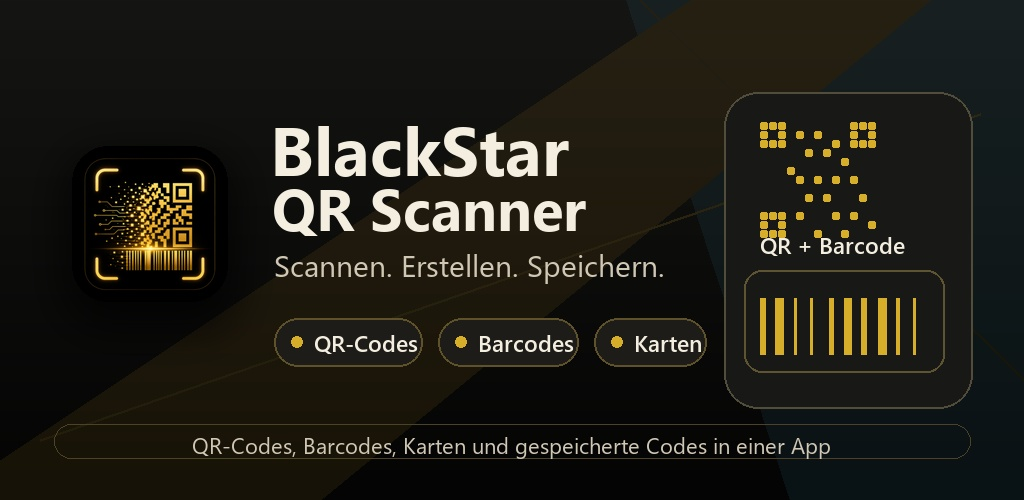
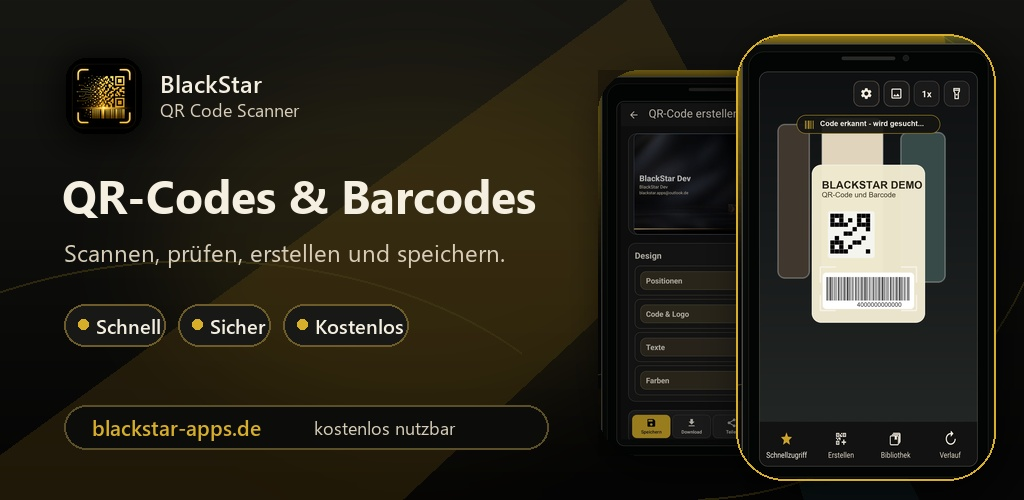
Refresh website screenshots and feature graphics

diff --git a/en/index.html b/en/index.html
@@ -137,7 +137,7 @@
 
     <section id="features" class="section intro-grid">
       <div>
-        <p class="section-kicker">Version 2.0</p>
+        <p class="section-kicker">App highlights</p>
         <h2>More than a quick scanner</h2>
         <p>
           The app combines camera scanning, code creation, a local library, templates
@@ -180,8 +180,8 @@
         </ul>
       </div>
       <div class="phone-pair" aria-label="App previews">
-        <img class="phone one" src="../assets/img/screen-business-card-designer-en.jpg" alt="Business card designer in BlackStar QR Scanner">
-        <img class="phone two" src="../assets/img/screen-save-and-organize-en.jpg" alt="Saved QR business card">
+        <img class="phone one" src="../assets/img/web-en-04-business-card-designer.jpg" alt="Business card designer in BlackStar QR Scanner">
+        <img class="phone two" src="../assets/img/web-en-07-location-card.jpg" alt="Location card with QR code and design options">
       </div>
     </section>
 
@@ -204,36 +204,36 @@
       </div>
       <div class="screenshots">
         <figure>
-          <img src="../assets/img/screen-scan-status-en.jpg" alt="Scanner with detected barcode status">
+          <img src="../assets/img/web-en-01-scan-codes.jpg" alt="Scanner with detected QR code and barcode">
           <figcaption>Fast scanning</figcaption>
         </figure>
         <figure>
-          <img src="../assets/img/screen-local-safety-check-en.jpg" alt="Result screen with local security check">
+          <img src="../assets/img/web-en-02-link-safety-check.jpg" alt="Link result with local safety check">
           <figcaption>Check links</figcaption>
         </figure>
         <figure>
-          <img src="../assets/img/screen-product-barcodes-en.jpg" alt="Product and barcode result with quick actions">
-          <figcaption>Product & barcode tools</figcaption>
-        </figure>
-        <figure>
-          <img src="../assets/img/screen-create-any-code-en.jpg" alt="Code creation with multiple code types">
+          <img src="../assets/img/web-en-03-create-codes.jpg" alt="QR code generator with multiple code types">
           <figcaption>Create codes</figcaption>
         </figure>
         <figure>
-          <img src="../assets/img/screen-ready-made-templates-en.jpg" alt="Ready-made templates for QR cards and labels">
-          <figcaption>Ready-made templates</figcaption>
+          <img src="../assets/img/web-en-04-business-card-designer.jpg" alt="Business card designer with layout and color sections">
+          <figcaption>Design business cards</figcaption>
         </figure>
         <figure>
-          <img src="../assets/img/screen-business-card-designer-en.jpg" alt="Business card designer with layout and color sections">
-          <figcaption>Business card designer</figcaption>
+          <img src="../assets/img/web-en-05-organize-library.jpg" alt="Library with folders for saved codes">
+          <figcaption>Code library</figcaption>
         </figure>
         <figure>
-          <img src="../assets/img/screen-save-and-organize-en.jpg" alt="Saved QR code with preview and actions">
-          <figcaption>Save and organize</figcaption>
+          <img src="../assets/img/web-en-06-product-code.jpg" alt="Product code and barcode label with saved preview">
+          <figcaption>Product codes</figcaption>
         </figure>
         <figure>
-          <img src="../assets/img/screen-library-folders-en.jpg" alt="Library with folders">
-          <figcaption>Keep codes organized</figcaption>
+          <img src="../assets/img/web-en-07-location-card.jpg" alt="Location card with QR code and layout options">
+          <figcaption>Location cards</figcaption>
+        </figure>
+        <figure>
+          <img src="../assets/img/web-en-08-multi-scan-selection.jpg" alt="Multi-code scan with selectable codes">
+          <figcaption>Multi-code scan</figcaption>
         </figure>
       </div>
     </section>

diff --git a/index.html b/index.html
@@ -137,7 +137,7 @@
 
     <section id="funktionen" class="section intro-grid">
       <div>
-        <p class="section-kicker">Version 2.0</p>
+        <p class="section-kicker">App-Highlights</p>
         <h2>Mehr als ein schneller Scanner</h2>
         <p>
           Die App verbindet Kamera-Scan, Code-Erstellung, Bibliothek, Vorlagen und
@@ -181,8 +181,8 @@
         </ul>
       </div>
       <div class="phone-pair" aria-label="App-Vorschauen">
-        <img class="phone one" src="assets/img/screen-designer.jpg" alt="Visitenkarten-Designer im BlackStar QR Scanner">
-        <img class="phone two" src="assets/img/screen-save.jpg" alt="Gespeicherte QR-Visitenkarte">
+        <img class="phone one" src="assets/img/web-de-04-business-card-designer.jpg" alt="Visitenkarten-Designer im BlackStar QR Scanner">
+        <img class="phone two" src="assets/img/web-de-07-location-card.jpg" alt="Standortkarte mit QR-Code und Designoptionen">
       </div>
     </section>
 
@@ -206,36 +206,36 @@
       </div>
       <div class="screenshots">
         <figure>
-          <img src="assets/img/screen-scan.jpg" alt="Scanner mit erkanntem Barcode">
+          <img src="assets/img/web-de-01-scan-codes.jpg" alt="Scanner mit erkanntem QR-Code und Barcode">
           <figcaption>Schnell scannen</figcaption>
         </figure>
         <figure>
-          <img src="assets/img/screen-safety.jpg" alt="Ergebnis mit lokalem Sicherheitscheck">
+          <img src="assets/img/web-de-02-link-safety-check.jpg" alt="Link-Ergebnis mit lokalem Sicherheitscheck">
           <figcaption>Links prüfen</figcaption>
         </figure>
         <figure>
-          <img src="assets/img/screen-product-barcodes.jpg" alt="Produkt- und Barcode-Ergebnis mit Aktionen">
-          <figcaption>Produkt- und Barcode-Tools</figcaption>
-        </figure>
-        <figure>
-          <img src="assets/img/screen-create.jpg" alt="QR-Code-Erstellung mit mehreren Codearten">
+          <img src="assets/img/web-de-03-create-codes.jpg" alt="QR-Code-Generator mit mehreren Codearten">
           <figcaption>Codes erstellen</figcaption>
         </figure>
         <figure>
-          <img src="assets/img/screen-ready-made-templates.jpg" alt="Designvorlagen für QR-Karten und Etiketten">
-          <figcaption>Designvorlagen</figcaption>
+          <img src="assets/img/web-de-04-business-card-designer.jpg" alt="Visitenkarten-Designer mit Layout- und Farbbereichen">
+          <figcaption>Visitenkarten gestalten</figcaption>
         </figure>
         <figure>
-          <img src="assets/img/screen-designer.jpg" alt="Visitenkarten-Designer mit Layout- und Farbbereichen">
-          <figcaption>Visitenkarten-Designer</figcaption>
-        </figure>
-        <figure>
-          <img src="assets/img/screen-save.jpg" alt="Gespeicherter QR-Code mit Vorschau und Aktionen">
-          <figcaption>Speichern und ordnen</figcaption>
-        </figure>
-        <figure>
-          <img src="assets/img/screen-library.jpg" alt="Bibliothek mit Ordnern">
+          <img src="assets/img/web-de-05-organize-library.jpg" alt="Bibliothek mit Ordnern für gespeicherte Codes">
           <figcaption>Code-Bibliothek</figcaption>
+        </figure>
+        <figure>
+          <img src="assets/img/web-de-06-product-code.jpg" alt="Produktcode und Barcode-Etikett mit gespeicherter Vorschau">
+          <figcaption>Produktcodes</figcaption>
+        </figure>
+        <figure>
+          <img src="assets/img/web-de-07-location-card.jpg" alt="Standortkarte mit QR-Code und Layoutoptionen">
+          <figcaption>Standortkarten</figcaption>
+        </figure>
+        <figure>
+          <img src="assets/img/web-de-08-multi-scan-selection.jpg" alt="Mehrfachscan mit auswählbaren Codes">
+          <figcaption>Mehrfachscan</figcaption>
         </figure>
       </div>
     </section>
